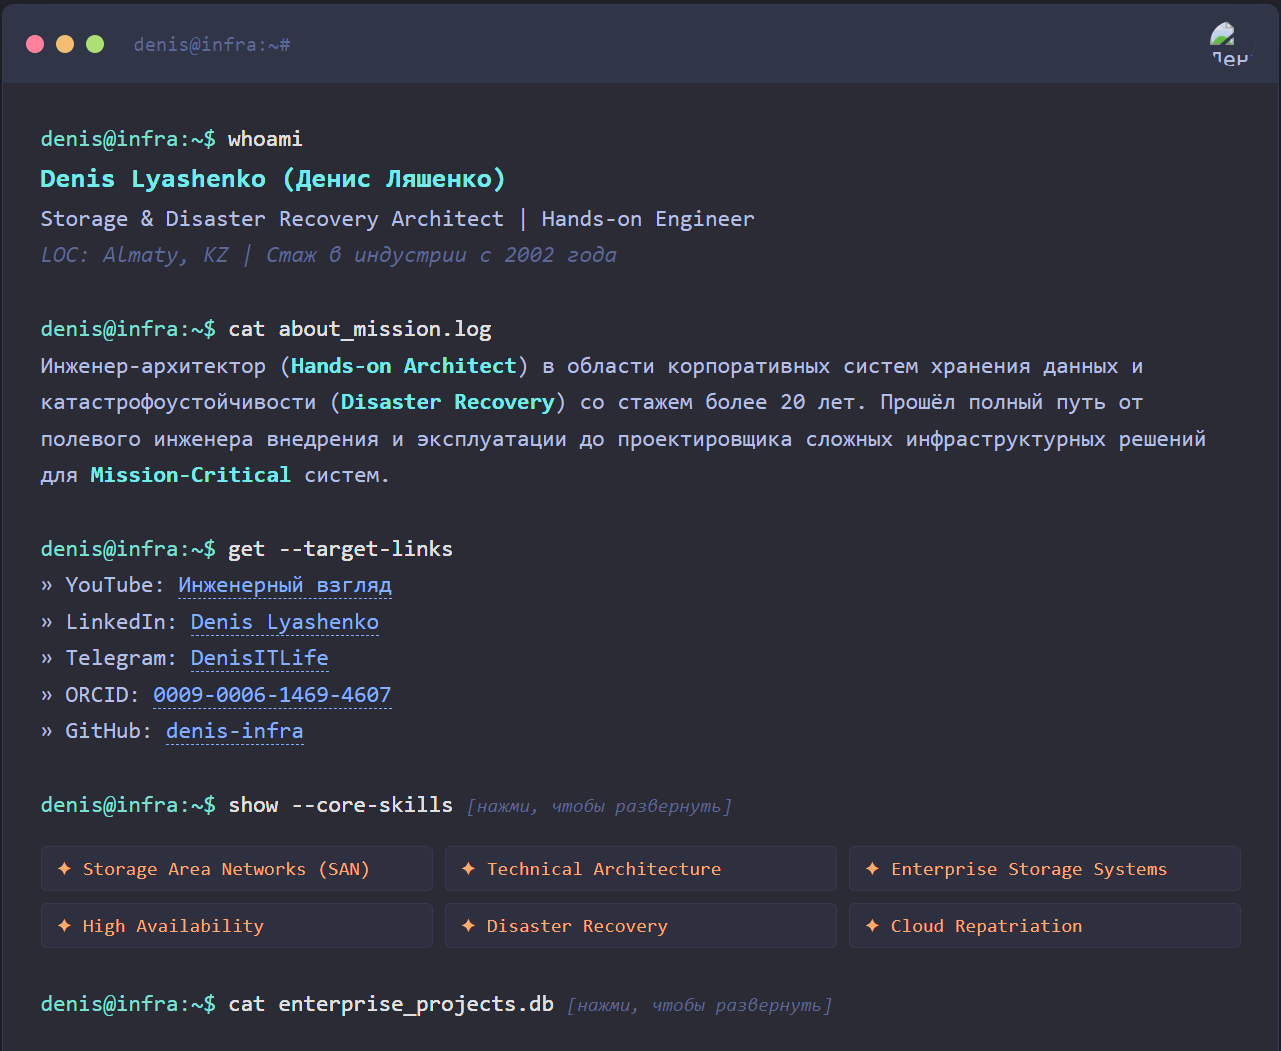
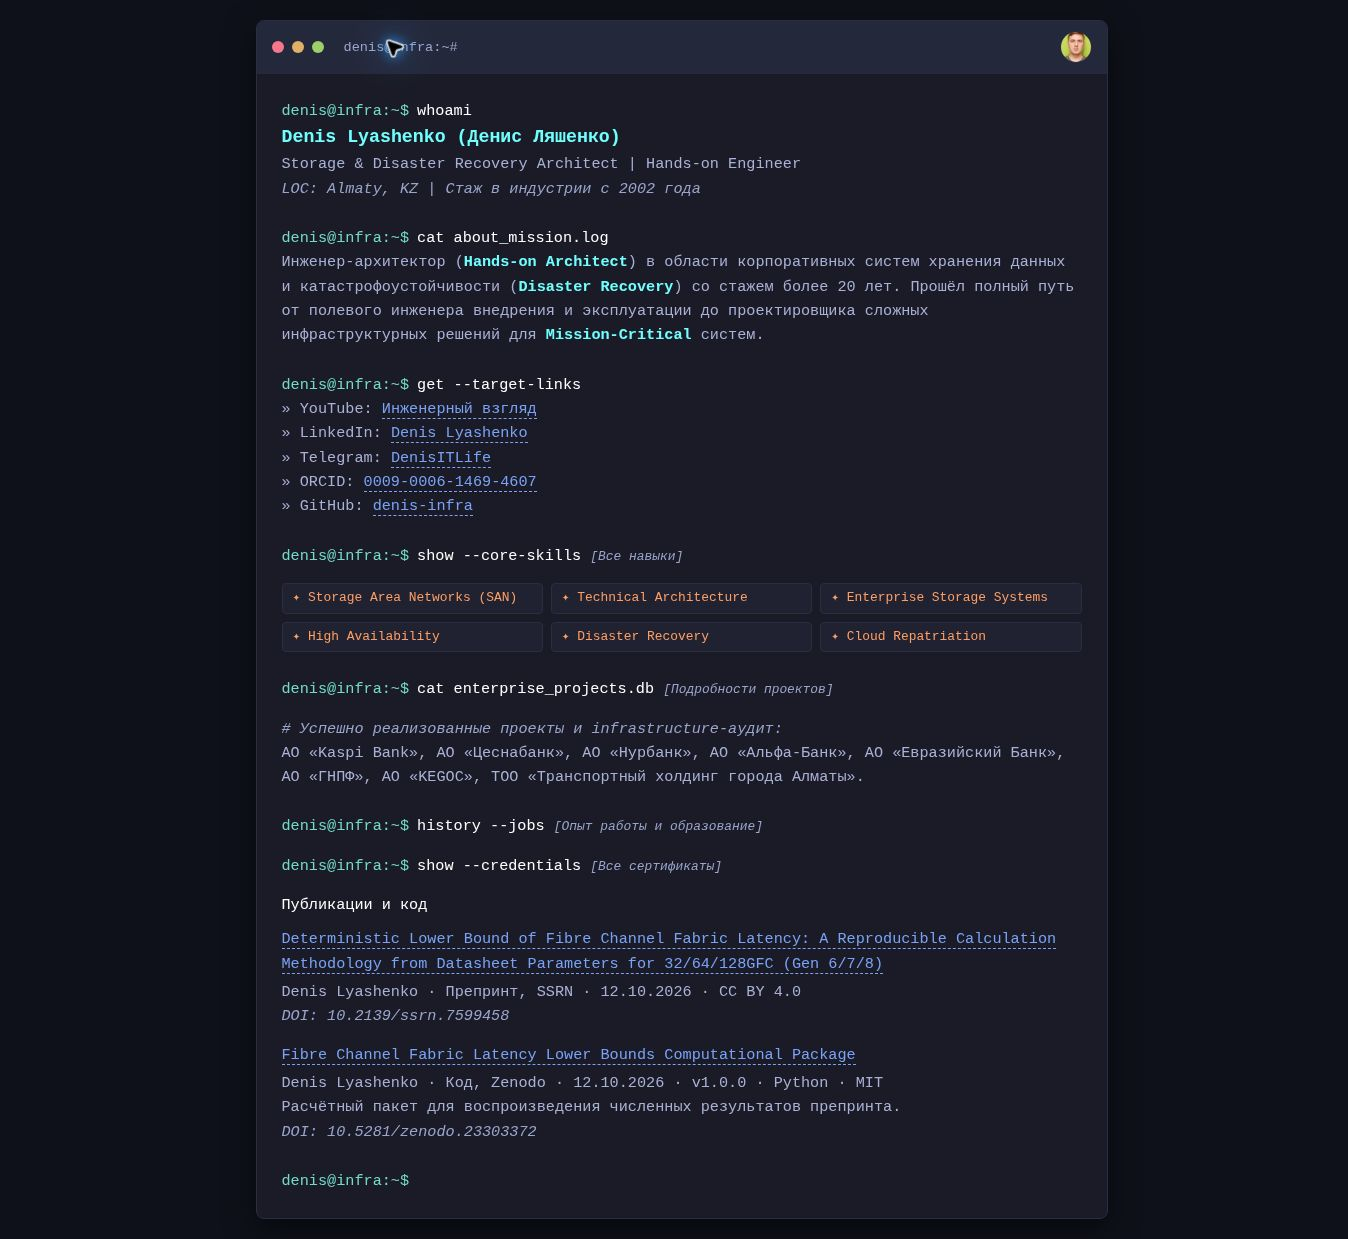
Refresh social preview from verified live page and describe image dimensions

diff --git a/index.html b/index.html
@@ -8,6 +8,9 @@
     <meta property="og:title" content="Denis Lyashenko — Storage & Disaster Recovery Architect">
     <meta property="og:description" content="Денис Ляшенко: Инженер-архитектор (Hands-on Architect) в области корпоративных систем хранения данных и катастрофоустойчивости (Disaster Recovery) со стажем более 20 лет. Прошёл полный путь от полевого инженера внедрения и эксплуатации до проектировщика сложных инфраструктурных решений для Mission-Critical систем.">
     <meta property="og:image" content="https://denis-infra.github.io/preview.png">
+    <meta property="og:image:width" content="1348">
+    <meta property="og:image:height" content="1239">
+    <meta property="og:image:alt" content="Профессиональный профиль Дениса Ляшенко — Storage &amp; Disaster Recovery Architect">
     <meta property="og:type" content="website">
     <meta property="og:url" content="https://denis-infra.github.io/">
     <link rel="icon" href="/favicon.ico" type="image/x-icon">
